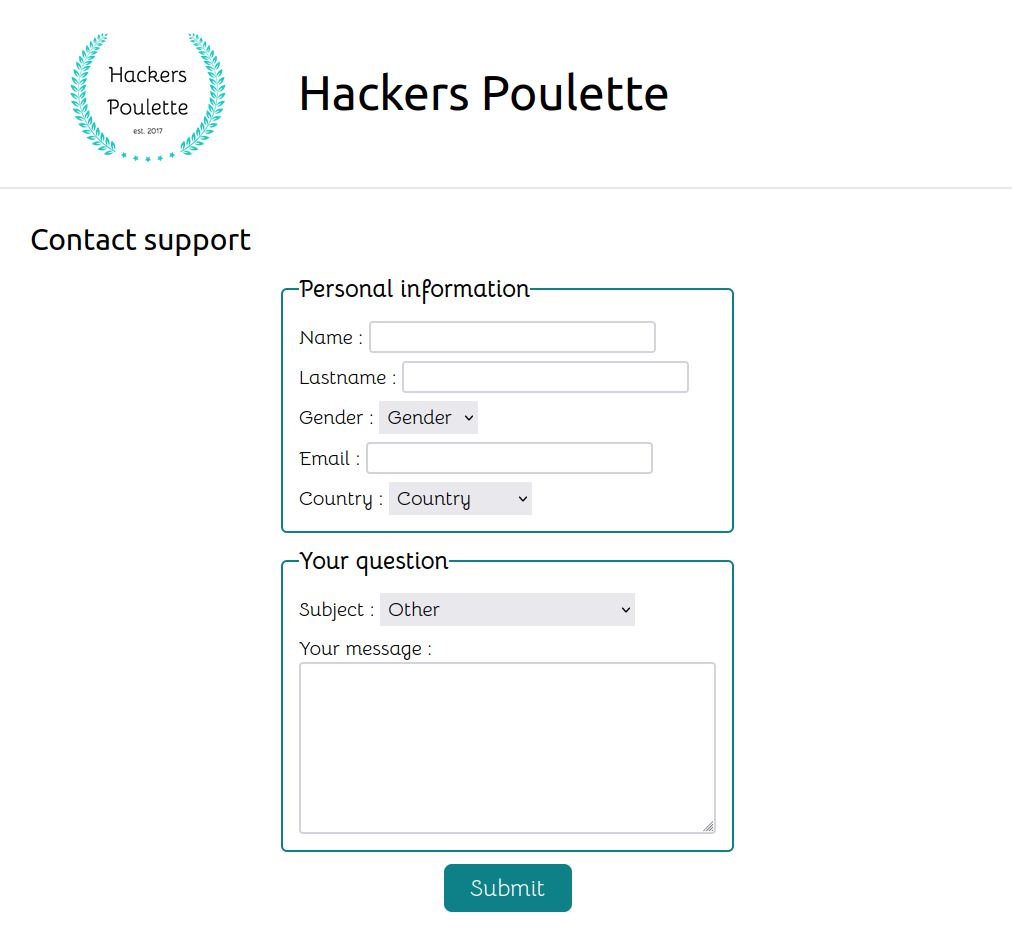
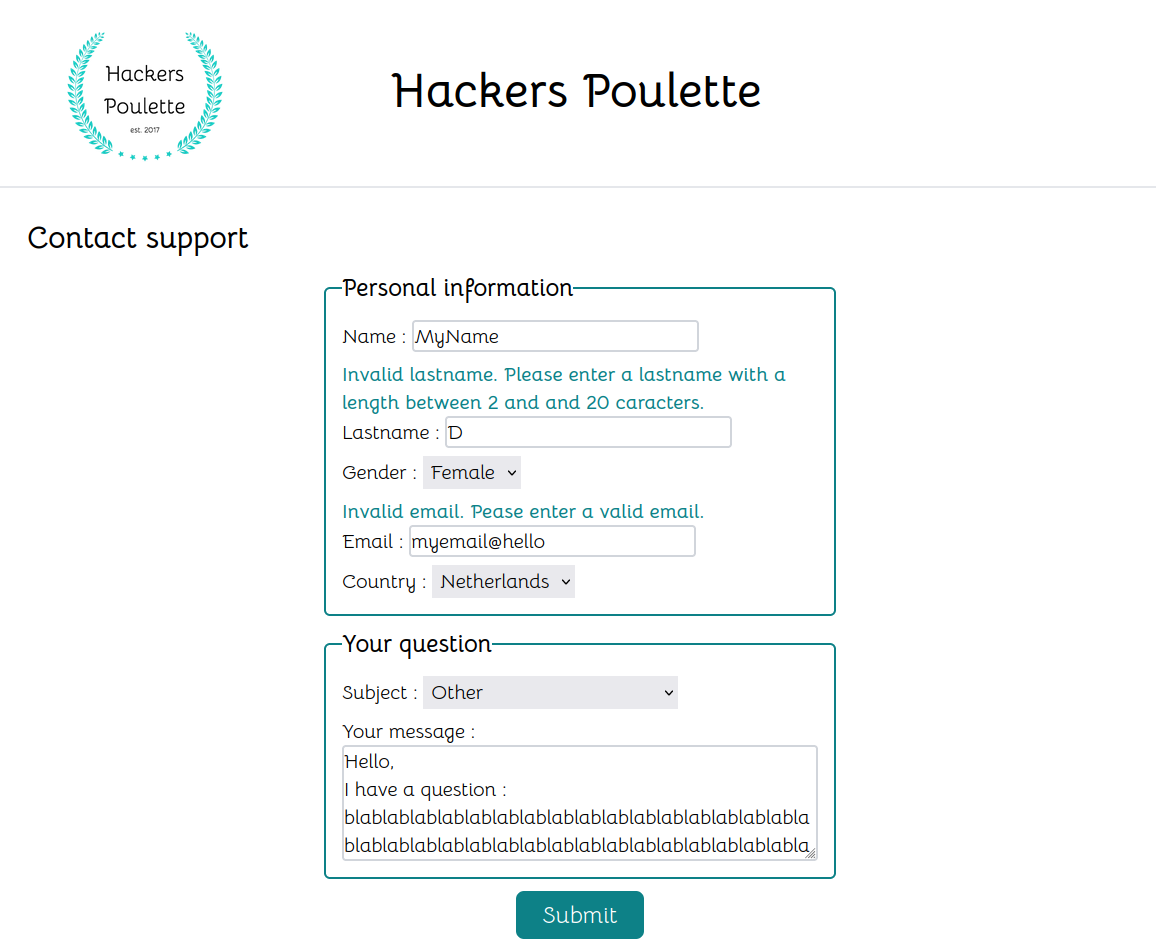
Validate/sanitize country

diff --git a/index.view.php b/index.view.php
@@ -49,14 +49,15 @@
                     <input class="border-2 border-gray-300 rounded" type="email" id="email" name="email" value="<?= $email ?? '';?>"required/>
                 </div>
                 <div class="personal__wrapCountry">
+                    <p class="text-colTurquoise font-bold"><?= $error['country'] ?? ''; ?></p>
                     <label for="country">Country : </label>
                     <select class="py-1 px-2" id="country" name="country" required>
-                        <option value="" selected>Country</option>
-                        <option value="belgium">Belgium</option>
-                        <option value="france">France</option>
-                        <option value="netherlands">Netherlands</option>
-                        <option value="germany">Germany</option>
-                        <option value="luxemburg">Luxemburg</option>
+                        <option value="" <?= isset($country) ? '' : 'selected';?>>Country</option>
+                        <option value="belgium" <?= (isset($country) AND ($country == "belgium")) ? 'selected' : '';?> >Belgium</option>
+                        <option value="france" <?= (isset($country) AND ($country == "france")) ? 'selected' : '';?> >France</option>
+                        <option value="netherlands" <?= (isset($country) AND ($country == "netherlans")) ? 'selected' : '';?> >Netherlands</option>
+                        <option value="germany" <?= (isset($country) AND ($country == "germany")) ? 'selected' : '';?> >Germany</option>
+                        <option value="luxemburg" <?= (isset($country) AND ($country == "luxemburg")) ? 'selected' : '';?> >Luxemburg</option>
                     </select>
                 </div>   
             </fieldset>
@@ -71,8 +72,9 @@
                     </select>
                 </div> 
                 <div class="question__wrapMessage flex flex-col">
+                    <p class="text-colTurquoise font-bold"><?= $error['message'] ?? ''; ?></p>
                     <label for="message">Your message : </label>
-                    <textarea class="border-2 border-gray-300 rounded" name="message" id="message" cols="30" rows="6"></textarea>
+                    <textarea class="border-2 border-gray-300 rounded" name="message" id="message" cols="30" rows="4" required><?= $message ?? '';?></textarea>
                 </div>
             </fieldset>
             <button class="block text-2xl px-3 py-2 button w-32 text-white bg-colTurquoise focus:ring-4 focus:ring-blue-300 font-medium rounded-lg" type="submit" name="submit" value="submit">Submit</Button>

diff --git a/index.php b/index.php
@@ -1,17 +1,18 @@
 <?php 
 
 //For testing :
-echo '<pre>';
-print_r($_POST);
-echo '</pre>';
+// echo '<pre>';
+// print_r($_POST);
+// echo '</pre>';
 
 $error = [];
 $genders = ['male','female','other'];
+$countries = ['belgium','france','netherlands','germany','luxemburg'];
 
 
 if (isset($_POST['submit']) AND (empty($_POST['age']))) {
     //The input "age" is for the honeypot (to avoid spam) 
-    
+
     //-------SANITIZE AND VALIDATE NAME------------------
     //If the name is completed
     if (isset($_POST['name'])){
@@ -70,6 +71,41 @@ if (isset($_POST['submit']) AND (empty($_POST['age']))) {
     //The email is not completed
     } else {
         $error['email'] = 'You must complete your email';
+    }
+
+    //-------SANITIZE AND VALIDATE COUNTRY------------------
+    //If the country is completed
+    if (isset($_POST['country'])){
+        $country = $_POST['country'];
+        //Check if the country belongs to the array of countrys
+        $countryOk = false;
+        foreach ($countries as $c){
+            if ($country == $c) {
+                $countryOk = true;
+            };
+        }
+        //If the country doesn't belong to the array of countrys
+        if ($countryOk == false) {
+            $country = NULL;
+            $error['country'] = 'Invalid country. Please enter a valid country';
+        }
+    //If the country is not completed
+    } else {
+        $error['country']= 'You must complete your country';
+    }
+
+
+    //-------SANITIZE AND VALIDATE MESSAGE------------------
+    //If the message is completed
+    if (isset($_POST['message'])){
+        $message = htmlspecialchars($_POST['message']);
+        //The sanitized message is too long
+        if (strlen($message)>500){
+            $error['message'] = 'Your message is too long. Please reduce your message (max 500 caracters).';
+        }
+    //If the message is not completed
+    } else {
+        $error['message']= 'You must complete your message';
     }
 
     //---------EXECUTE---------------
